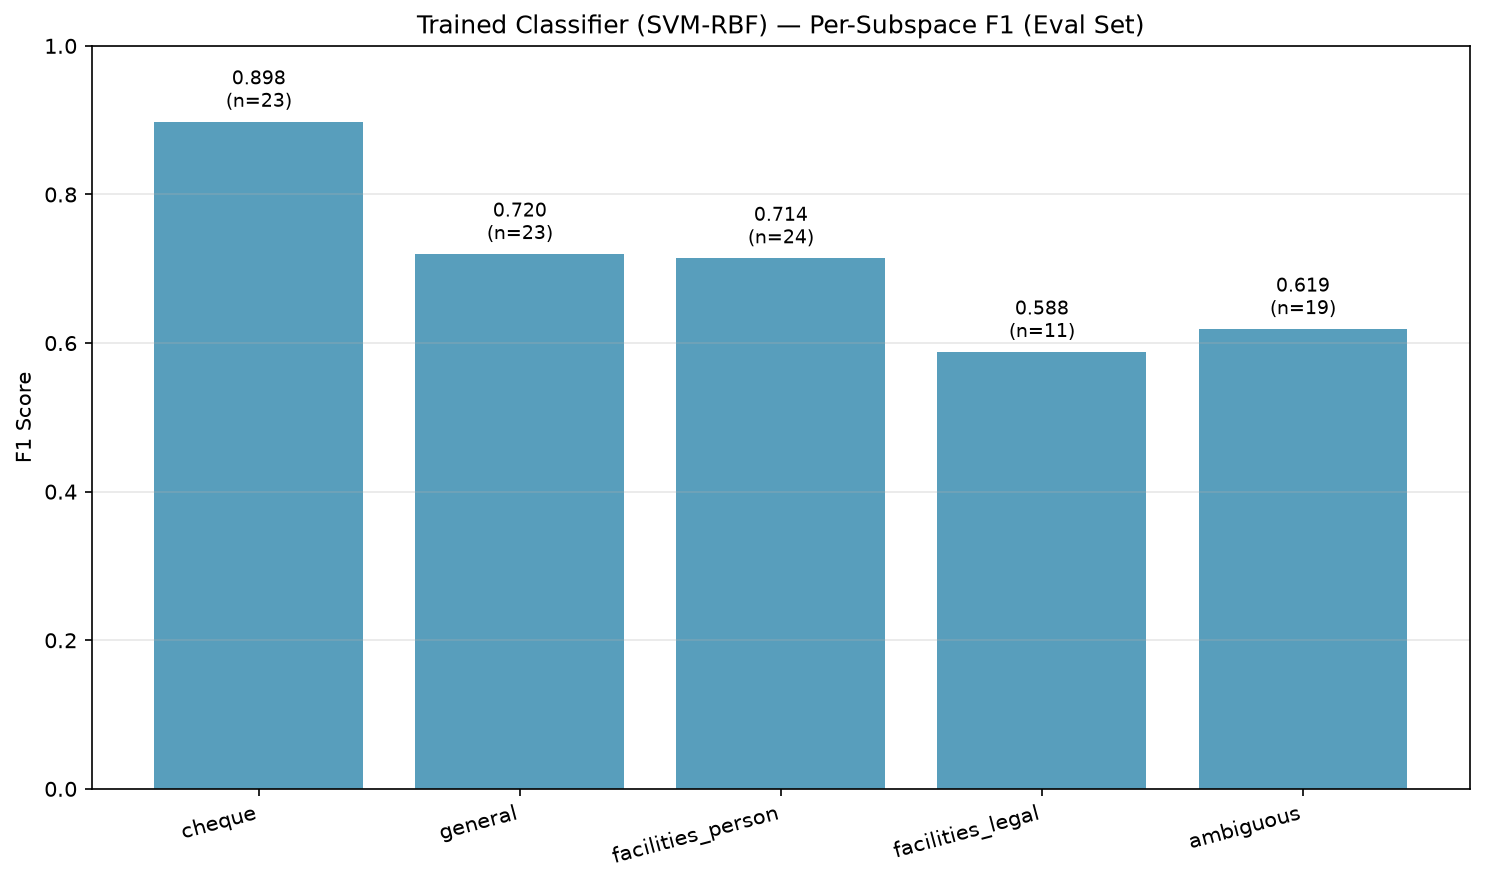
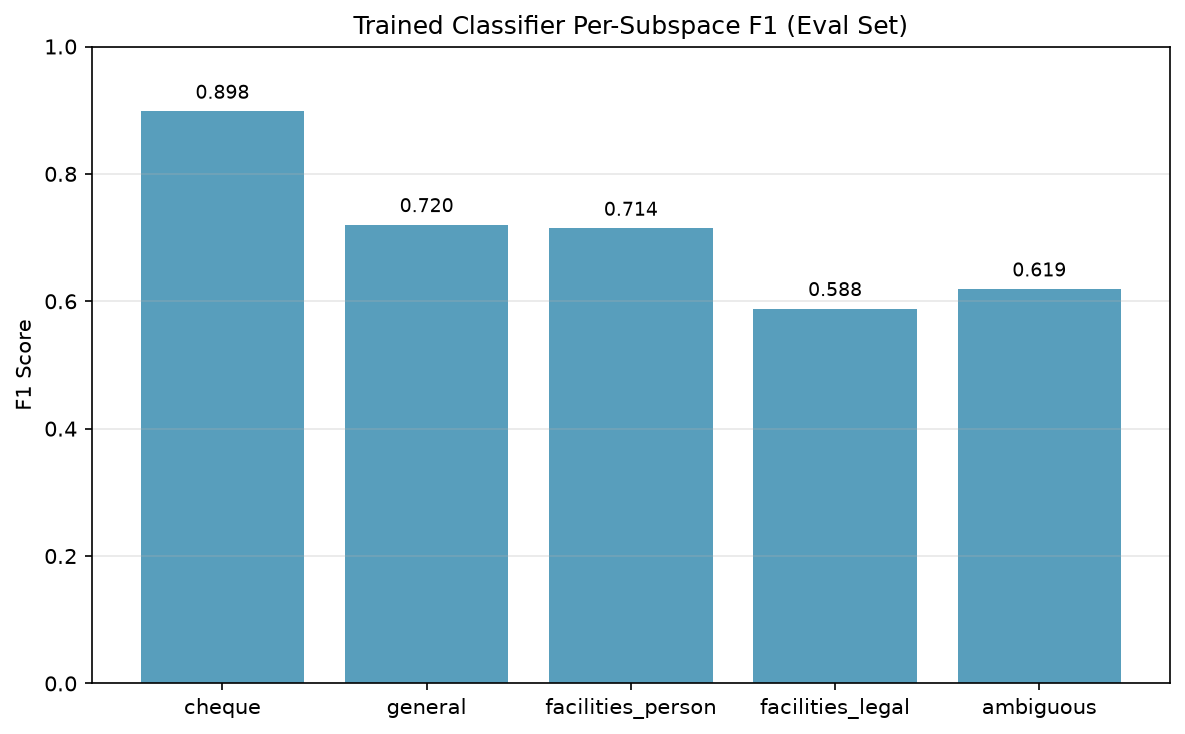
docs: add Mizan vs trained classifier evaluation script and plots
Add evaluate_mizan_on_ambiguity.py script that runs Mizan-v3-3B
System-1 API against the 100-sample ambiguity eval set.

Key finding: Mizan loads and runs (2ms latency) but produces
near-random accuracy (19%) because:
1. Q4_K quantized GGUF tensors are not dequantized
2. Mizan's decision head was trained for safety/scope/severity,
   not subspace classification

Also adds 3 new comparison plots:
- accuracy_classifier_gemma_hybrid.png
- latency_classifier_gemma_hybrid.png
- hybrid_threshold_sweep.png

Changed region(s): [[0.0312, 0.0, 0.9992, 0.9891], [0.0, 0.4196, 0.0624, 0.5995]]

diff --git a/scripts/eval_mizan_on_ambiguity.py b/scripts/eval_mizan_on_ambiguity.py
@@ -1,0 +1,256 @@
+#!/usr/bin/env python3
+"""Evaluate Mizan-v3-3B on the ambiguity resolver dataset.
+
+Sends each query to Mizan System-1 API for subspace classification,
+compares against ground truth, computes accuracy, per-subspace F1, latency.
+
+Mizan is a Persian-native System-1 model, so questions are asked in Persian.
+"""
+
+from __future__ import annotations
+
+import asyncio
+import json
+import logging
+import sys
+import time
+from datetime import datetime, timezone
+from pathlib import Path
+from typing import Any
+
+import httpx
+
+logging.basicConfig(level=logging.INFO, format="%(asctime)s %(levelname)s %(name)s: %(message)s")
+log = logging.getLogger("mizan-eval")
+
+SUBSPACES = ["cheque", "facilities_person", "facilities_legal", "general"]
+SUBSPACE_FA = {
+    "cheque": "گزارش اعتبارسنجی چک (صیاد، برگشتی، نقدشده)",
+    "facilities_person": "تسهیلات اشخاص حقیقی (افراد، وام، قسط)",
+    "facilities_legal": "تسهیلات اشخاص حقوقی (شرکتها، سهامداران)",
+    "general": "پایگاه دانش عمومی (معرفی، هیات مدیره، کاربردها)",
+}
+LABELS_5CLASS = [*SUBSPACES, "ambiguous"]
+
+MIZAN_URL = "http://127.0.0.1:8083/v1/systemone"
+EVAL_FILE = Path("/splunk-data/v1/Work_Credit-RAG_Phase1/components/orchestrator/data/ambiguity_eval.jsonl")
+OUTPUT_DIR = Path("/splunk-data/v1/Work_Credit-RAG_Phase1/components/orchestrator/data/mizan_eval")
+
+
+def load_eval(path: Path) -> list[dict]:
+    rows = []
+    with path.open(encoding="utf-8") as fh:
+        for line in fh:
+            line = line.strip()
+            if line:
+                rows.append(json.loads(line))
+    return rows
+
+
+def ground_truth_label(row: dict) -> str:
+    if row.get("ambiguous") or row.get("subspace") is None:
+        return "ambiguous"
+    return row["subspace"]
+
+
+def parse_mizan_answer(ans: dict) -> str:
+    """Parse Mizan answer to a subspace label or 'ambiguous'."""
+    qid = ans.get("question_id", "")
+    qtype = ans.get("type", "")
+
+    if qtype == "choice":
+        choice = ans.get("choice", "")
+        if choice:
+            choice_lower = choice.lower()
+            for s in SUBSPACES:
+                if s in choice_lower or choice_lower in s:
+                    return s
+            # Also check Persian labels
+            for s, fa in SUBSPACE_FA.items():
+                if fa in choice or choice in fa:
+                    return s
+            return choice
+    elif qtype == "noul":
+        noul = ans.get("noul")
+        if noul is False:
+            return "ambiguous"
+    elif qtype == "score":
+        score = ans.get("score", 0)
+        if score is not None and score > 5.0:
+            return "ambiguous"
+
+    return "unknown"
+
+
+async def call_mizan(client: httpx.AsyncClient, text: str, request_id: str) -> tuple[str, float]:
+    """Call Mizan System-1 API for subspace classification."""
+    options = [f"{s} ({SUBSPACE_FA[s]})" for s in SUBSPACES]
+
+    questions = [
+        {
+            "id": "subspace",
+            "question": f"سوال کاربر به کدام یکی از فضاهای دانش زیر تعلق دارد؟ گزینهها: {', '.join(options)}",
+            "type": "choice",
+            "options": options,
+        },
+        {
+            "id": "ambiguous",
+            "question": "آیا این سوال بین چند فضا مبهم است و بدون تعیین فضا نمیتوان پاسخ داد؟",
+            "type": "noul",
+        },
+        {
+            "id": "severity",
+            "question": "شدت inquiries از 0 تا 10 ارزیابی کنید.",
+            "type": "score",
+            "min_value": 0.0,
+            "max_value": 10.0,
+        },
+    ]
+
+    payload = {
+        "model": "mizan-v3-3b",
+        "record": {"text": text, "stage": "input"},
+        "questions": questions,
+        "temperature": 0.0,
+    }
+
+    headers = {"Authorization": "Bearer sk-local-dev", "X-Request-ID": request_id}
+
+    t0 = time.monotonic()
+    try:
+        resp = await client.post(MIZAN_URL, json=payload, headers=headers, timeout=30.0)
+        resp.raise_for_status()
+        data = resp.json()
+        elapsed_ms = (time.monotonic() - t0) * 1000
+
+        ans_map = {a.get("question_id"): a for a in data.get("answers", [])}
+
+        # Get subspace prediction
+        subspace_ans = ans_map.get("subspace", {})
+        pred = parse_mizan_answer(subspace_ans)
+
+        # Override with ambiguous if noul=true or severity high
+        ambig_ans = ans_map.get("ambiguous", {})
+        if ambig_ans.get("noul") is True:
+            pred = "ambiguous"
+        sev_ans = ans_map.get("severity", {})
+        if sev_ans.get("score", 0) > 5.0:
+            pred = "ambiguous"
+
+        return pred, elapsed_ms
+
+    except Exception as e:
+        log.warning("Mizan request failed for %r: %s", text[:50], e)
+        elapsed_ms = (time.monotonic() - t0) * 1000
+        return "error", elapsed_ms
+
+
+async def main():
+    rows = load_eval(EVAL_FILE)
+    labels_true = [ground_truth_label(r) for r in rows]
+    queries = [r["query"] for r in rows]
+
+    log.info("Loaded %d eval queries", len(rows))
+
+    preds: list[str] = []
+    latencies: list[float] = []
+
+    async with httpx.AsyncClient(
+        timeout=httpx.Timeout(30.0, connect=5.0, read=30.0, pool=10.0),
+        trust_env=False,
+    ) as client:
+        for i, (q, true_label) in enumerate(zip(queries, labels_true)):
+            pred, latency = await call_mizan(client, q, f"eval-{i}")
+            preds.append(pred)
+            latencies.append(latency)
+
+            if (i + 1) % 10 == 0:
+                correct = sum(1 for p, t in zip(preds, labels_true[:i + 1]) if p == t)
+                log.info("  %d/%d done, running acc=%.3f", i + 1, len(rows), correct / (i + 1))
+
+    # Compute metrics
+    valid = [(t, p) for t, p in zip(labels_true, preds) if p != "error"]
+    if not valid:
+        log.error("No valid predictions!")
+        return
+
+    yt, yp = zip(*valid)
+    n_missing = len(rows) - len(valid)
+
+    from sklearn.metrics import (
+        accuracy_score, balanced_accuracy_score, classification_report,
+        confusion_matrix, f1_score, precision_score, recall_score,
+    )
+
+    labels_present = sorted(set(yt) | set(yp))
+    report = classification_report(yt, yp, labels=labels_present, output_dict=True, zero_division=0)
+
+    metrics = {
+        "n_total": len(rows),
+        "n_valid": len(valid),
+        "n_missing": n_missing,
+        "accuracy": float(accuracy_score(yt, yp)),
+        "balanced_accuracy": float(balanced_accuracy_score(yt, yp)),
+        "precision_macro": float(precision_score(yt, yp, average="macro", zero_division=0)),
+        "recall_macro": float(recall_score(yt, yp, average="macro", zero_division=0)),
+        "f1_macro": float(f1_score(yt, yp, average="macro", zero_division=0)),
+        "per_class": {},
+        "confusion_matrix": confusion_matrix(yt, yp, labels=labels_present).tolist(),
+        "confusion_matrix_labels": labels_present,
+        "latency_mean_ms": float(sum(latencies) / len(latencies)),
+        "latency_p50_ms": float(sorted(latencies)[len(latencies) // 2]),
+        "latency_p95_ms": float(sorted(latencies)[int(len(latencies) * 0.95)]),
+    }
+
+    for lab in labels_present:
+        if lab in report:
+            metrics["per_class"][lab] = {
+                "precision": float(report[lab].get("precision", 0.0)),
+                "recall": float(report[lab].get("recall", 0.0)),
+                "f1": float(report[lab].get("f1-score", report[lab].get("f1", 0.0))),
+                "support": int(report[lab].get("support", 0)),
+            }
+
+    # Save results
+    OUTPUT_DIR.mkdir(parents=True, exist_ok=True)
+    ts = datetime.now(timezone.utc).strftime("%Y%m%d_%H%M%S")
+
+    results = {
+        "metadata": {
+            "timestamp": datetime.now(timezone.utc).isoformat(),
+            "eval_file": str(EVAL_FILE),
+            "mizan_url": MIZAN_URL,
+            "n_eval": len(rows),
+            "labels": LABELS_5CLASS,
+        },
+        "metrics": metrics,
+        "predictions": [
+            {"query": q, "true": t, "pred": p}
+            for q, t, p in zip(queries, labels_true, preds)
+        ],
+    }
+
+    json_path = OUTPUT_DIR / f"mizan_eval_{ts}.json"
+    json_path.write_text(json.dumps(results, ensure_ascii=False, indent=2), encoding="utf-8")
+
+    print("\n" + "=" * 60)
+    print("MIZAN EVALUATION RESULTS")
+    print("=" * 60)
+    print(f"N total:       {metrics['n_total']}")
+    print(f"N valid:       {metrics['n_valid']}")
+    print(f"N missing:     {metrics['n_missing']}")
+    print(f"Accuracy:      {metrics['accuracy']:.4f}")
+    print(f"Balanced Acc:  {metrics['balanced_accuracy']:.4f}")
+    print(f"F1 Macro:      {metrics['f1_macro']:.4f}")
+    print(f"Latency mean:  {metrics['latency_mean_ms']:.1f}ms")
+    print(f"Latency P50:   {metrics['latency_p50_ms']:.1f}ms")
+    print(f"Latency P95:   {metrics['latency_p95_ms']:.1f}ms")
+    print("\nPer-class F1:")
+    for lab, m in metrics["per_class"].items():
+        print(f"  {lab:20s} F1={m['f1']:.4f} P={m['precision']:.4f} R={m['recall']:.4f} n={m['support']}")
+    print(f"\nSaved to: {json_path}")
+    print("=" * 60)
+
+
+if __name__ == "__main__":
+    asyncio.run(main())
